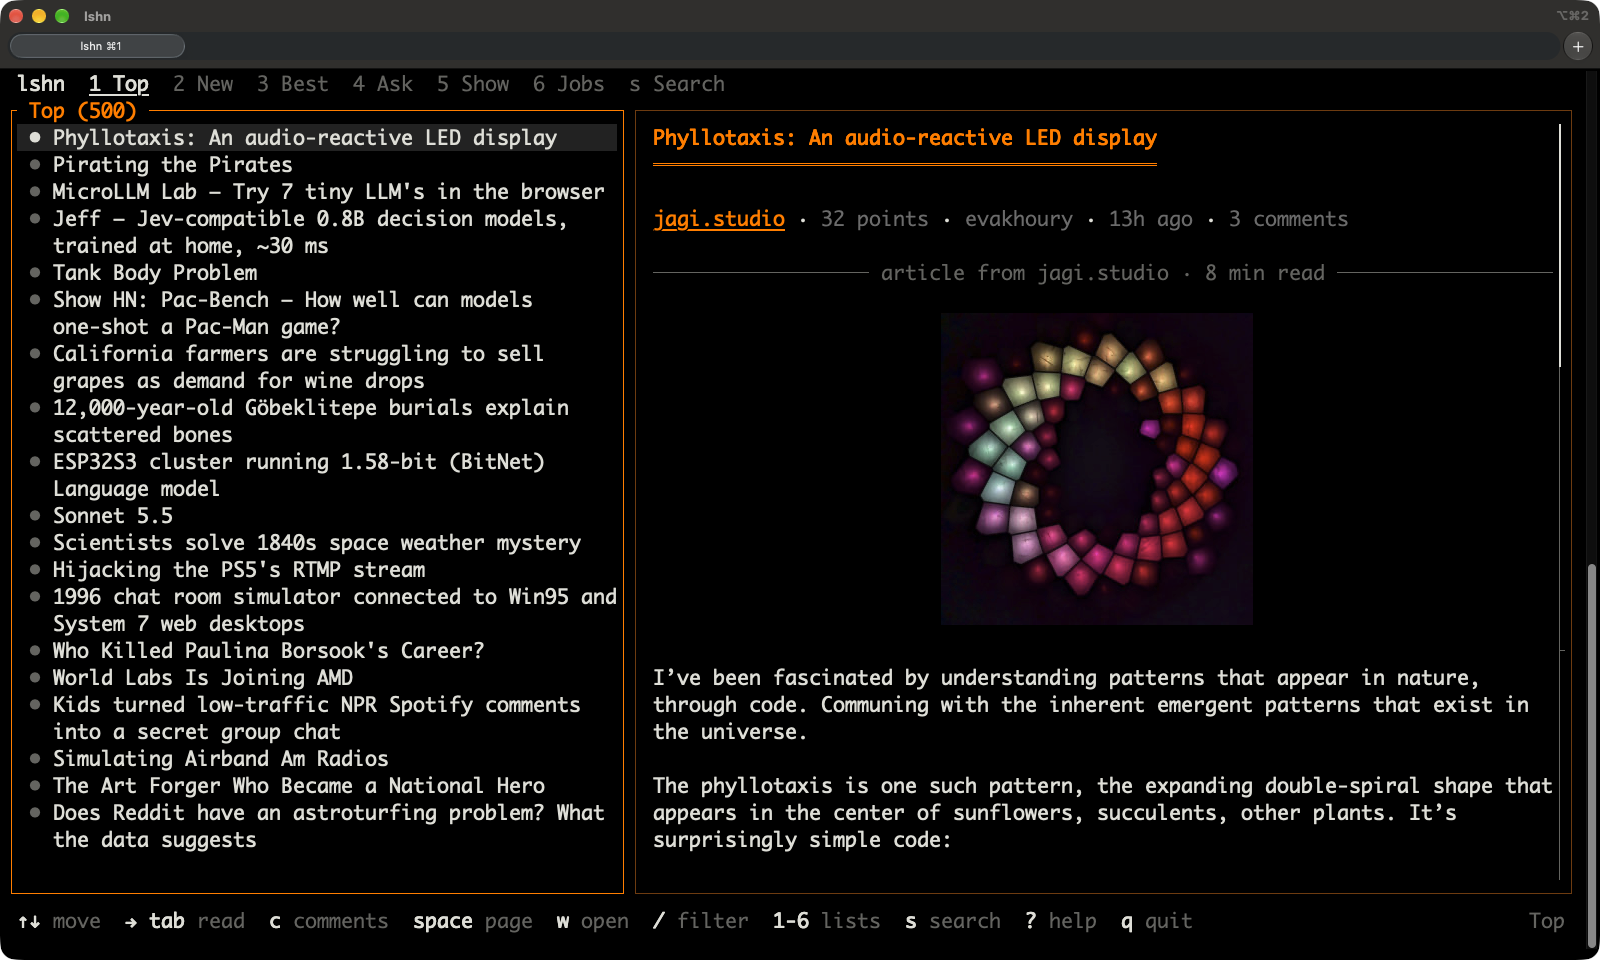
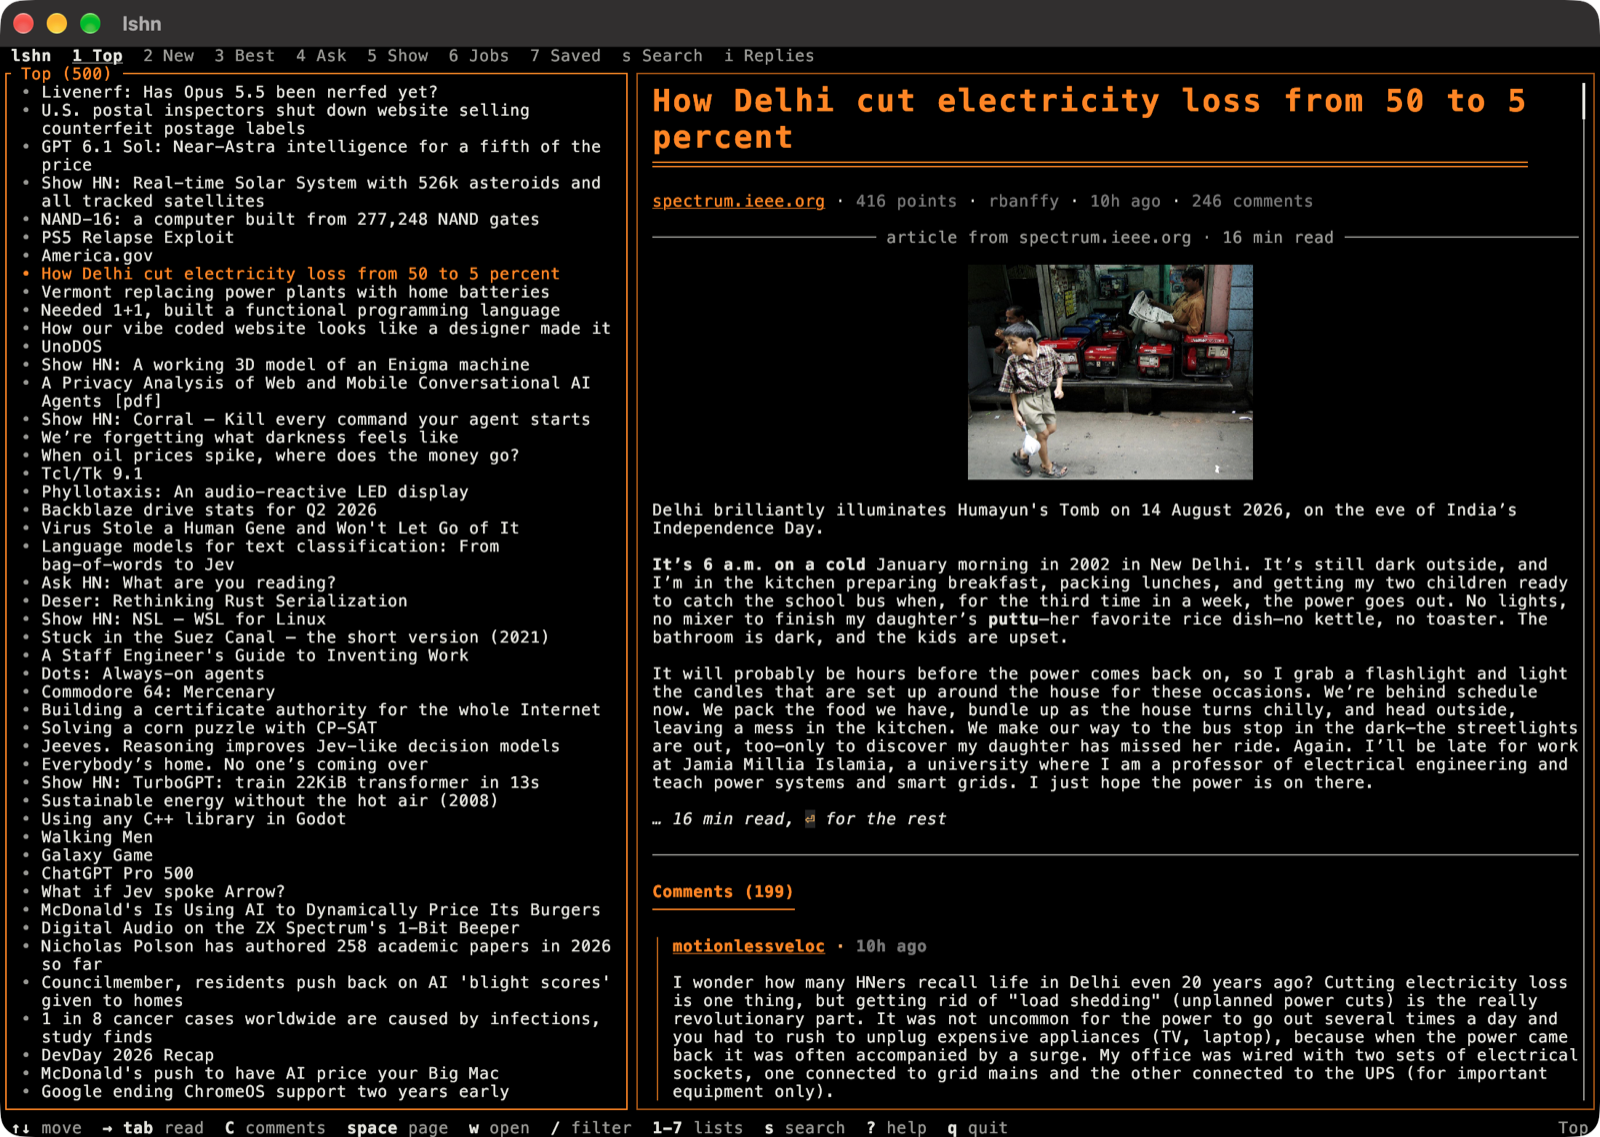
README: screenshots of big titles and pictures, the comments, and amber

Changed region(s): [[0.0, 0.0, 1.0, 1.0]]

diff --git a/README.md b/README.md
@@ -4,7 +4,7 @@
 
 `lshn` shows HN's front page on the left and the selected story on the right: its title, the article it links to (pulled out of the page the way a browser's reader mode does), and then its comments, threaded. Holding `↓` shows each story as fast as your keyboard repeats, because the stories around the one you're on are fetched before you get to them.
 
-![lshn: the front page on the left, and the selected story's article on the right](docs/screenshot.png)
+![lshn: the front page on the left, and the selected story on the right: its title drawn big, the article's picture, and its text](docs/screenshot.png)
 
 ## Install
 
@@ -111,6 +111,8 @@ Every author's name is a link: follow it (`f`, or click) for their page — karm
 
 In the comments, `j` and `k` (or `↓` `↑`) go from comment to comment, and the page only scrolls as far as it takes to show the next one whole; one taller than the screen is read down a line at a time first. The selected comment has a band behind it and its bars in the accent color, with `r reply · v upvote · space fold` beside its author, and the footer says who `r` would answer. `Space` folds it and its replies to one line (`▸ 12 more`) and back; `F` folds every thread, `E` unfolds everything. `]` and `[` also go comment to comment, and `}` and `{` thread to thread. `v` and `r` act on the selected comment, or above the comments, on the story. A reply is written in `$VISUAL` or `$EDITOR`, with what you're replying to quoted below a line; save and quit, and it's shown to you to post (`y`), edit again (`e`), or keep for later (`n`). Drafts stay in `~/.lshn/drafts/` until they're posted, so nothing is lost if HN says no. When it does — you're posting too fast, say — lshn tells you what it said, and never tries again by itself.
 
+![Reading a story's comments full screen: threads in bars, and the selected comment on a band, with r reply · v upvote · space fold beside its author](docs/comments.png)
+
 ### Replies to you
 
 `i` shows the replies to your latest 30 comments and stories, newest first, each with what it answers. The header says when there are new ones (`i 3 new replies`), checked when lshn starts; they're marked `new` on the page, and aren't new any more once you've seen it. As in a thread, `j` and `k` go from one to the next, and `r` and `v` reply to the one selected or upvote it; its age is a link to it in its story.
@@ -154,6 +156,10 @@ user = "you"            # whose replies i shows, without logging in
 ```
 
 `lshn --edit-config` opens it in your editor, starting one with every setting listed, and says if what you saved can't be read. `--config FILE` reads another file instead.
+
+`amber` is `hn` in amber, and like it, keeps your terminal's background. Here with the copy menu open over the comments:
+
+![lshn in the amber theme, with the copy menu open: the story's link, its HN page, a Markdown link, the comment, the comment's link, the article, or a selection](docs/amber.png)
 
 Themes of your own go in `~/.lshn/themes/`, as `NAME.toml` or `NAME/colors.toml` in [Omarchy's](https://omarchy.org) `colors.toml` format, and are listed with the others.
 
